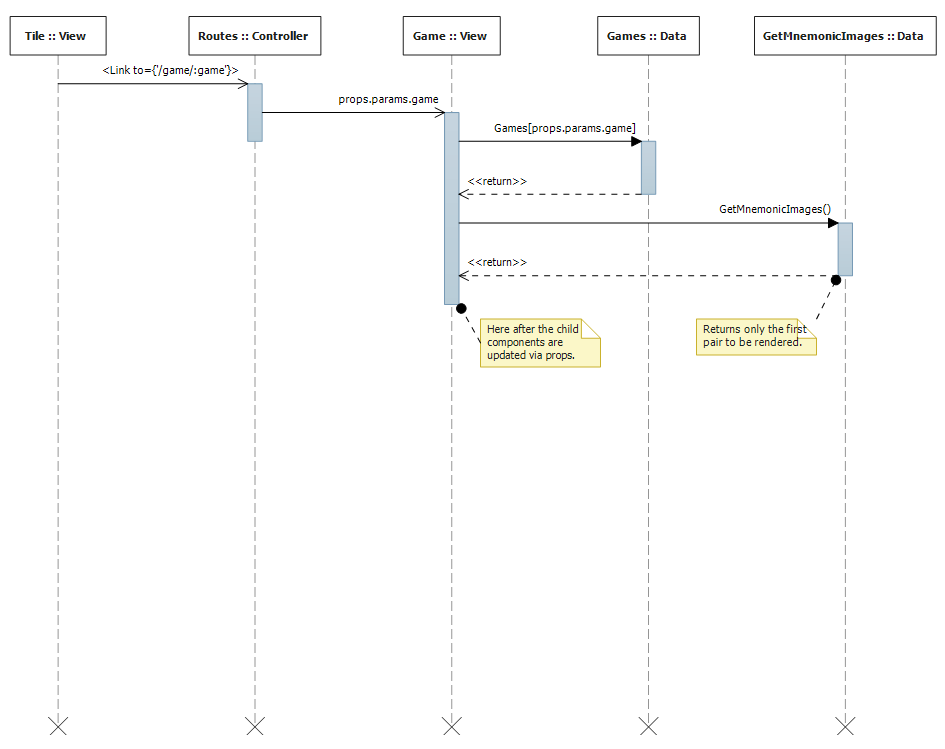
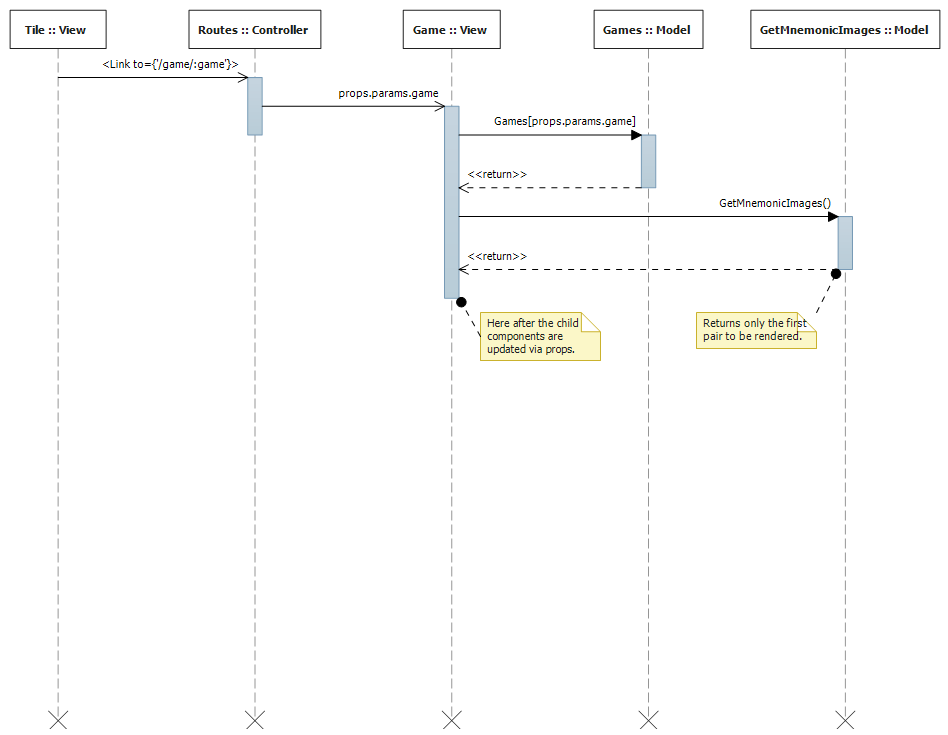
Updated the diagrams

diff --git a/_drafts/2016-01-18-comparison-between-the-old-and-new-app-architecture.md b/_drafts/2016-01-18-comparison-between-the-old-and-new-app-architecture.md
@@ -27,7 +27,7 @@ As you can see it would just be horrendous to look at. Using `React-Redux` it is
 
 ### Render Game Sequence Diagram
 
-The following sequence diagram is for rendering a single game. `Tile` is a child component to `StartPage` and each `Tile` is mapped to a game from Data. 
+The following sequence diagram is for rendering a single game. `Tile` is a child component to `StartPage` and each `Tile` is mapped to a game from Data. When the link is clicked React-Router routes the user to the `Game` component along with the parameters from the link, telling the `Game` component which game to render. Then it gets the data for that game from `Games` in the Model for rendering the title etc and the first pair from `GetMnemonicImages` for rendering placeholders for the user to see before starting the game.
 
 ![Render game sequence diagram](https://raw.githubusercontent.com/OskarKlintrotSkolarbeteWP14/2dv607.oskarklintrot.se/gh-pages/public/pics/uml/new/NewRenderGameUMLSequenceDiagram.png)
 
